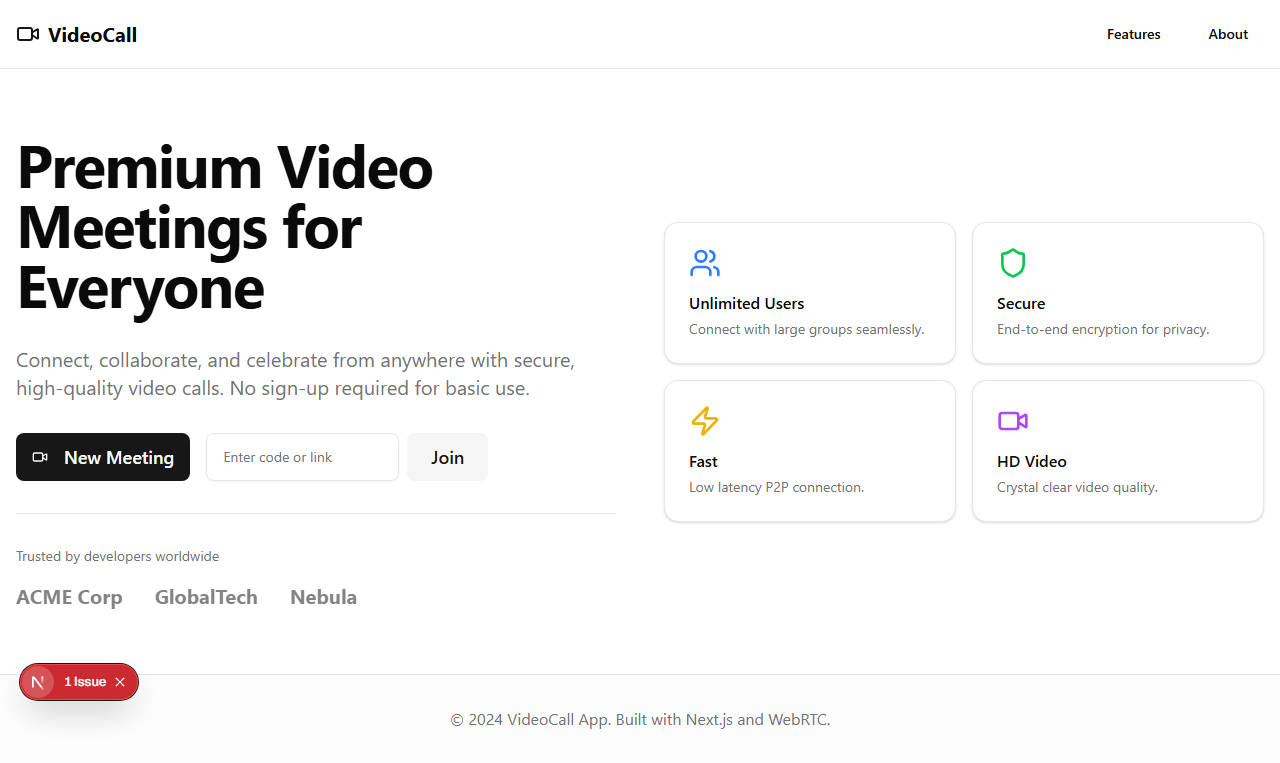
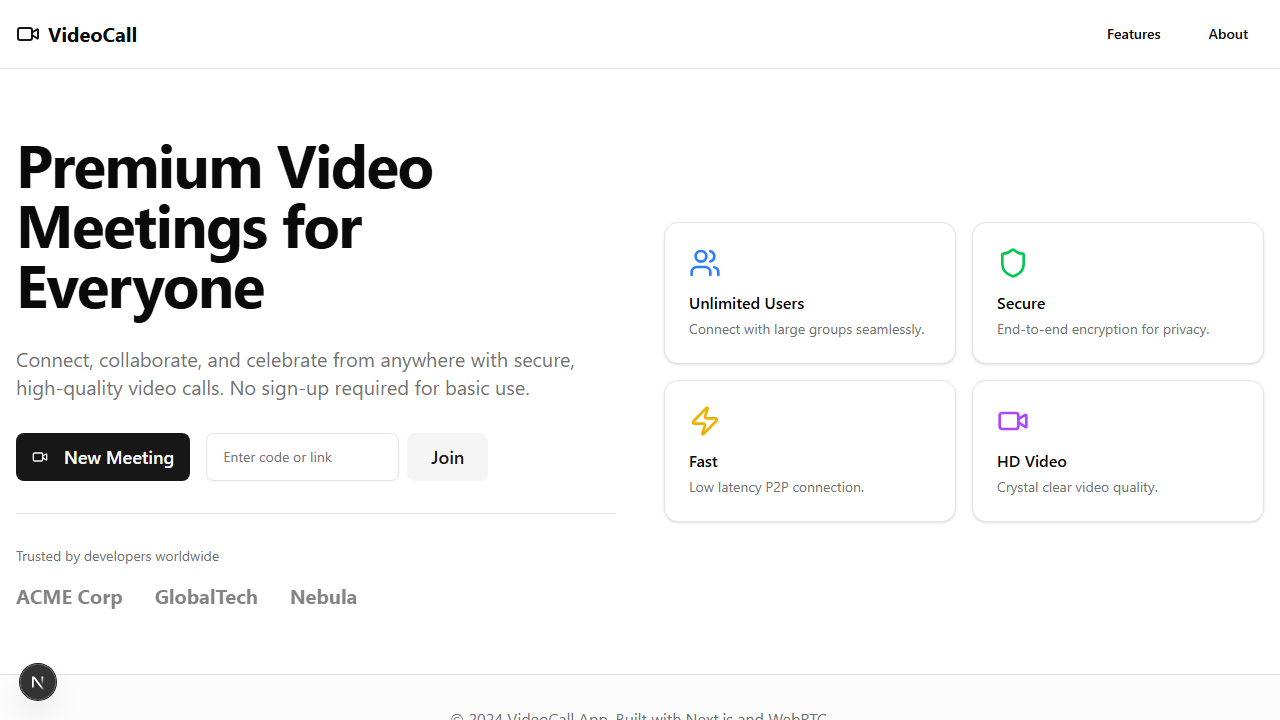
docs: refresh all screenshots and update README + user manual
Retake home and lobby via Playwright node script.
Refresh all 9 docs/screenshots with cinematic avatar visuals.
Update README and user-manual.md to reference the latest images.

diff --git a/docs/user-manual.md b/docs/user-manual.md
@@ -64,16 +64,12 @@ VideoCall の使い方をスクリーンショット付きで説明します。
 
 - 自分の映像が大きく表示されます
 - 他の参加者が来るまで **「Waiting for others」** 表示になります
-- 左上のデバッグ情報でSocket接続状態・ルームIDを確認できます
 
 ### 相手が参加したとき
 
 ![通話室（2人接続）](screenshots/04_room_connected.png)
 
-相手が同じルームに入ると：
-- 自分と相手の映像が並んで表示されます
-- デバッグ情報の「Remote Peers」に相手の名前が表示されます
-- WebRTCによるP2P接続が自動的に確立されます
+相手が同じルームに入ると、自分と相手の映像が並んで表示されます。WebRTCによるP2P接続が自動的に確立され、映像・音声がリアルタイムで届きます。
 
 ---
 
@@ -112,7 +108,7 @@ VideoCall の使い方をスクリーンショット付きで説明します。
 ![メッセージを送信した後（送信者側）](screenshots/06_chat_send.png)
 
 1. 下部の入力欄にメッセージを入力します
-2. **送信ボタン**（紙飛行機アイコン）をクリックするか **Enter** キーを押します
+2. 送信ボタン（紙飛行機アイコン）をクリックするか **Enter** キーを押します
 3. 自分が送ったメッセージは右側に **「You」** ラベルで表示されます（濃い色のバブル）
 
 ### メッセージを受け取る
@@ -140,10 +136,7 @@ VideoCall の使い方をスクリーンショット付きで説明します。
 
 ![退出後の画面（他のユーザーから見た場合）](screenshots/09_room_after_leave.png)
 
-誰かが退出すると：
-- 退出した人のビデオタイルが消えます
-- 残ったユーザーの画面は全画面表示に戻ります
-- 参加者が0人になるとルームは自動削除されます
+誰かが退出すると、退出した人のビデオタイルが消え、残ったユーザーの画面が全画面表示に戻ります。参加者が0人になるとルームは自動削除されます。
 
 ---
 
@@ -152,11 +145,8 @@ VideoCall の使い方をスクリーンショット付きで説明します。
 **Q. カメラ・マイクが表示されない**  
 A. ブラウザのカメラ・マイク許可設定を確認してください。URLバーの鍵アイコンから権限を確認できます。
 
-**Q. 相手の映像が表示されない（黒い画面）**  
-A. カメラがオフになっている可能性があります。相手に確認してもらってください。STUN/TURNサーバーが未設定の場合、異なるネットワーク間では映像が届かないことがあります（チャットは動作します）。
-
-**Q. 同一LAN外から繋がらない**  
-A. 現在のPoC版はSTUN/TURNサーバー未設定のため、同一マシン・同一LAN内のみ対応しています。本番環境ではSTUN/TURNの設定が必要です。詳細は [pitfalls.md](pitfalls.md) を参照してください。
+**Q. 相手の映像が届かない**  
+A. 現在のPoC版はSTUN/TURNサーバー未設定のため、同一マシン・同一LAN内のみ対応しています。詳細は [pitfalls.md](pitfalls.md) を参照してください。
 
 **Q. ルームIDはどう決まるの？**  
 A. 「New Meeting」で作成した場合はランダムなIDが生成されます。任意の文字列をルームIDとして使うこともできます（英数字・ハイフン推奨）。
